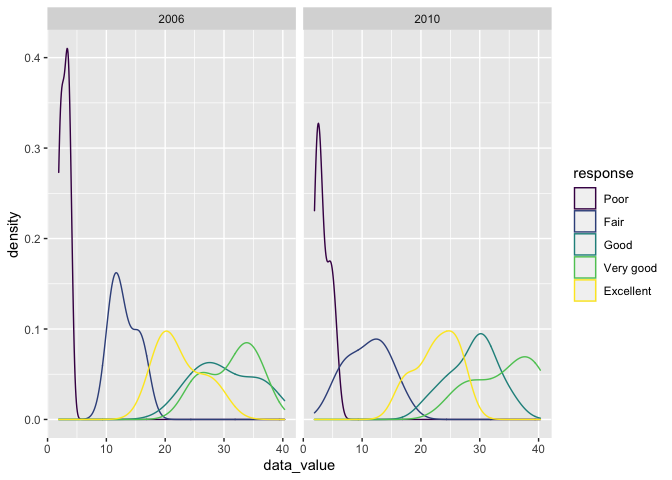
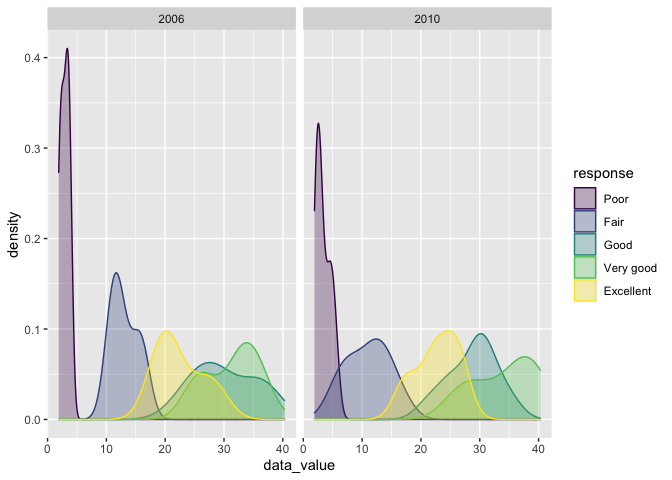
cleaned up problem 2 .. still not sure the last plot is addressing the prompt correctly.. should there be one for every location in both years ? (10+ plots) ?

Changed region(s): [[0.0625, 0.125, 0.4375, 0.875], [0.4688, 0.2812, 0.8125, 0.875], [0.8438, 0.375, 0.9062, 0.625]]

diff --git a/p8105_hw3_lzs2109.md b/p8105_hw3_lzs2109.md
@@ -127,7 +127,7 @@ instacart %>%
   pivot_wider(
     names_from = days_of_week, 
     values_from = mean_hour) %>% 
-  knitr::kable()
+  knitr::kable(caption = "Mean Times (24hr) Ordered by Day")
 ```
 
     ## `summarise()` has grouped output by 'product_name'. You can override using the `.groups` argument.
@@ -136,6 +136,8 @@ instacart %>%
 |:-----------------|-------:|-------:|--------:|----------:|---------:|-------:|---------:|
 | Coffee Ice Cream |     13 |     14 |      15 |        15 |       15 |     12 |       13 |
 | Pink Lady Apples |     13 |     11 |      11 |        14 |       11 |     12 |       11 |
+
+Mean Times (24hr) Ordered by Day
 
 ### **Problem 2**
 
@@ -184,7 +186,7 @@ brfss_smart2010 %>%
     ## 6  2002 PA          10
 
 It looks like in 2002, only six states were observed at 7 or more
-locations or counties. These states included Connecticut (7 counties),
+locations/counties. These states included Connecticut (7 counties),
 Florida (7 counties), Massachusets (8 counties), North Carolina (7
 counties), New Jersey (8 counties), and Pennsylvania (10 counties). None
 were observed at more than 10 counties or locations.
@@ -221,18 +223,22 @@ brfss_smart2010 %>%
     ## 14  2010 WA          10
 
 By 2010, fourteen different states were observed at 7 or more locations.
-These states include five of the six from 2002 (no Connecticut), as well
-as California, Colorado, Maryland, Nebraska, New York, Ohio, South
-Carolina, Texas, and Washington.
+These states include five of the six from 2002 (not Connecticut), as
+well as California, Colorado, Maryland, Nebraska, New York, Ohio, South
+Carolina, Texas, and Washington. All of the states that appeared on the
+2002 list and the 2010 list were observed at more locations in 2010 with
+the exception of Pennsylvania, which dropped from 10 locations in 2002
+to 7 in 2010. Please see the list for number of locations observed for
+each state.
 
 ``` r
 brfss_smart2010 %>% 
   filter(response == "Excellent") %>% 
   select(year, state, county, data_value) %>% 
-  group_by(year, state) %>% #removed county .. ?
-  summarize(mean_data_value = mean(data_value)) %>% 
+  group_by(year, state) %>% 
+  summarize(mean_data_value = mean(data_value)) %>%
   ggplot(aes(x = year, y = mean_data_value, color = state)) +
-  geom_line()
+  geom_line(aes(group = state)) #not sure if the group aesthetic made a difference..
 ```
 
     ## `summarise()` has grouped output by 'year'. You can override using the `.groups` argument.
@@ -247,15 +253,16 @@ data values across states ranges from about 17 on the low end to about
 29 on the high end, with most states being between 20 and 25. It seems
 like most states, if not all, start off with higher averages in 2002 and
 end with lower averages in 2010, meaning that the average data value of
-“Excellent” responses goes down over thie 8 year period.
+“Excellent” responses goes down over this 8 year period from 2002 to
+2010.
 
 ``` r
 brfss_smart2010 %>% 
   filter(state == "NY",
          year == 2006 | year == 2010) %>% 
   select(year, state, county, response, data_value) %>% 
-  ggplot(aes(x = data_value, color = response)) + 
-  geom_density() +
+  ggplot(aes(x = data_value, color = response, fill = response)) + 
+  geom_density(alpha = .3) +
   facet_grid(. ~ year)
 ```
 
